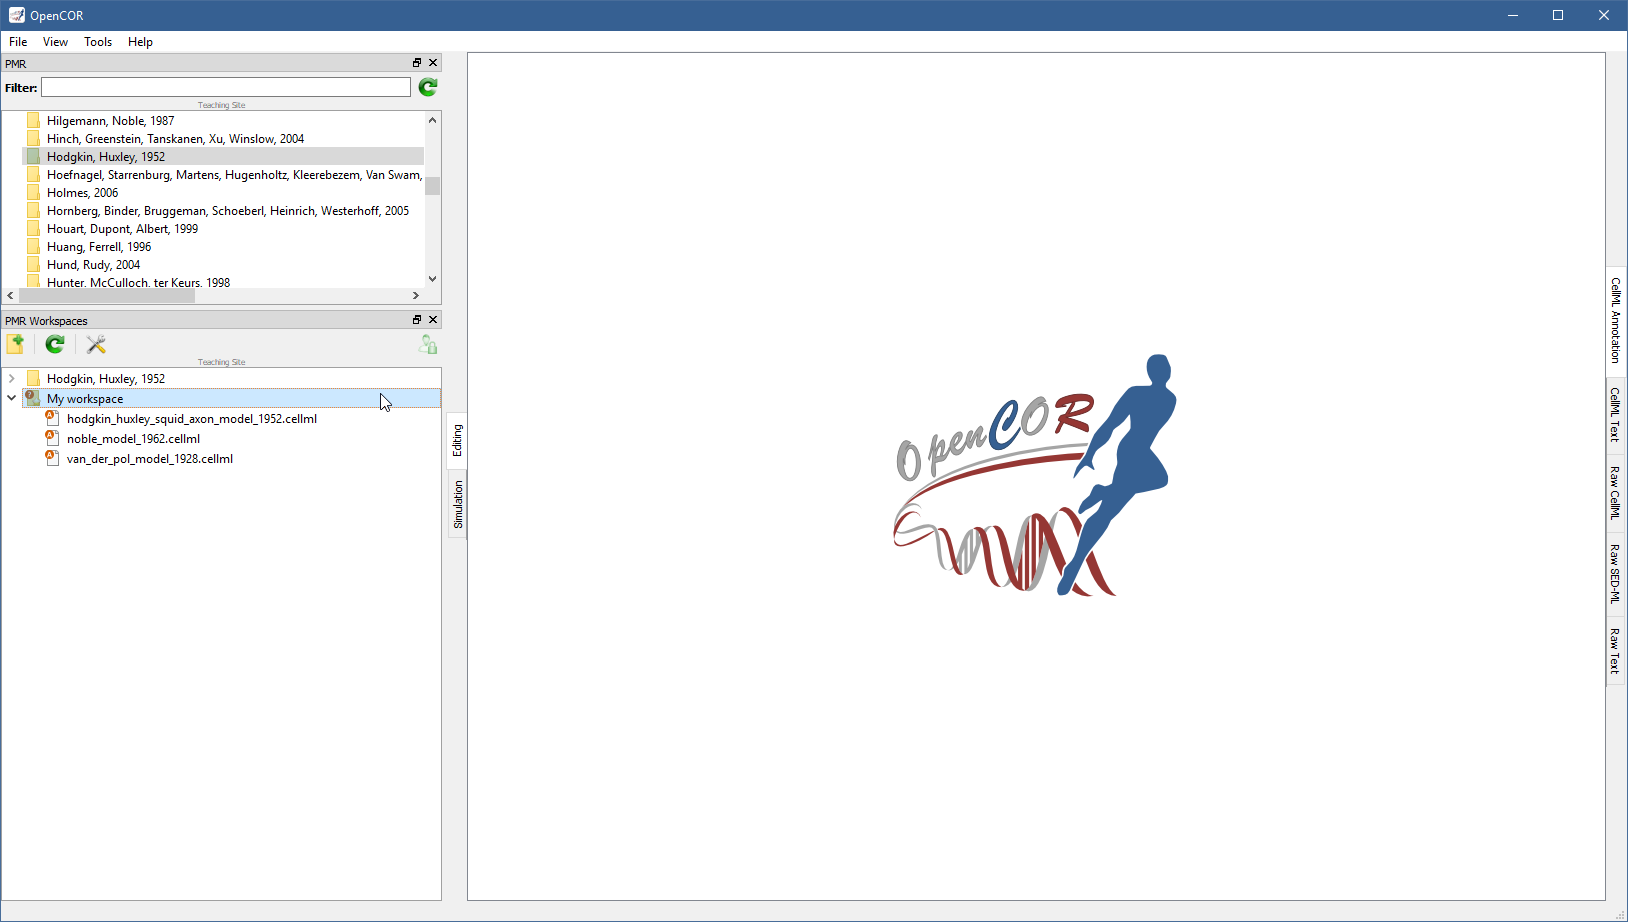
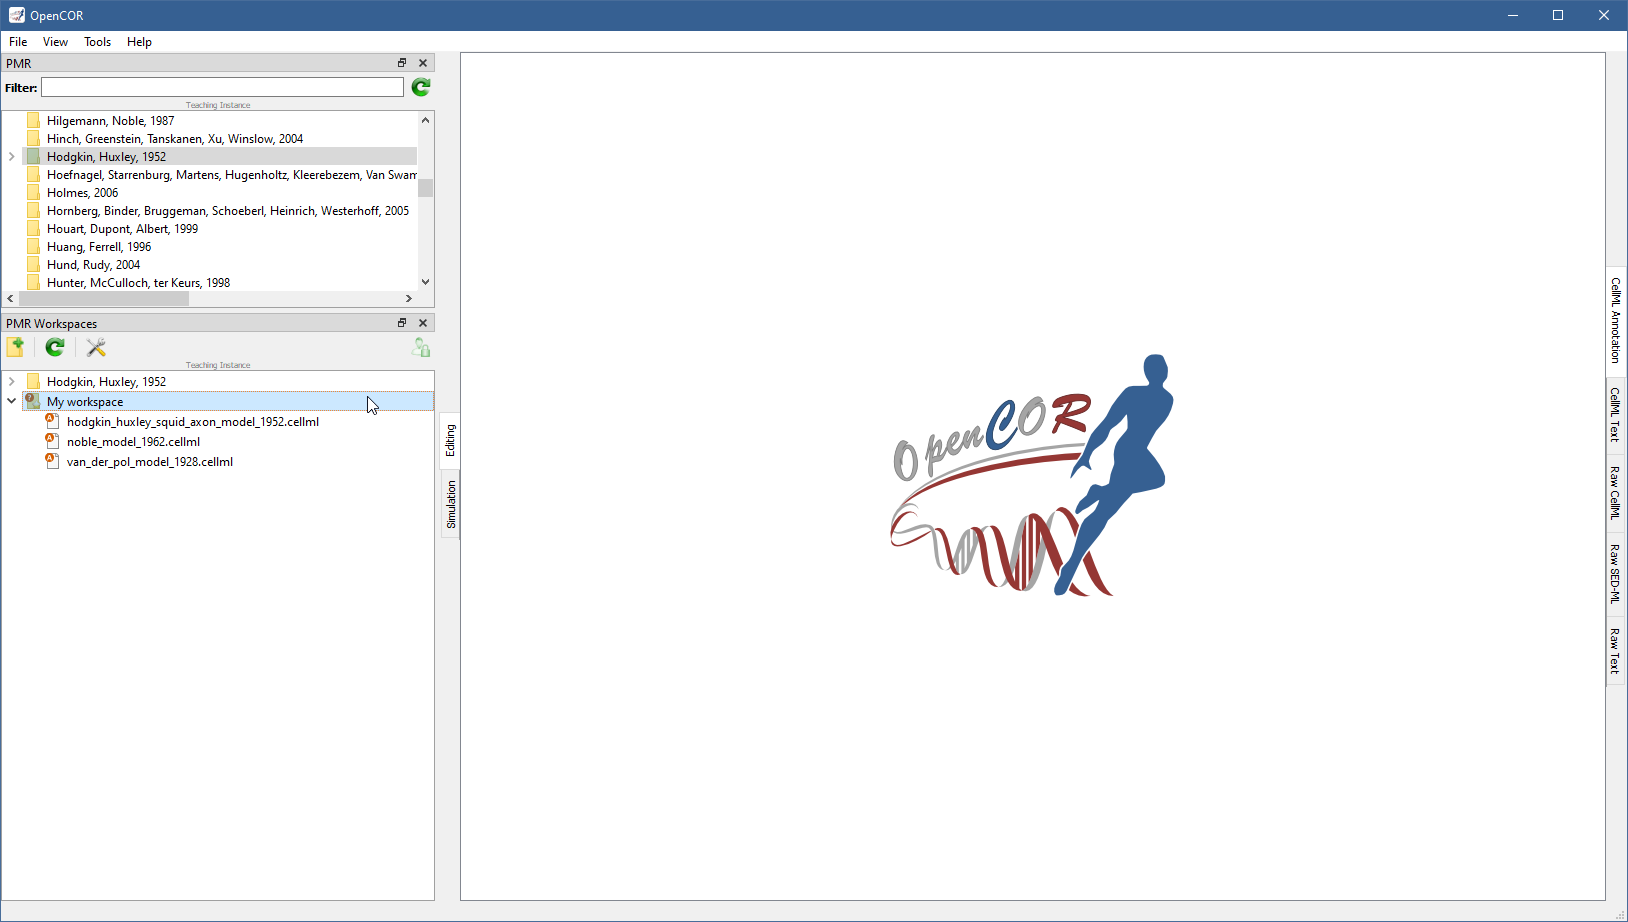
Updated our PMR workspaces window plugin page.

diff --git a/src/plugins/organisation/pmrWorkspacesWindow.rst b/src/plugins/organisation/pmrWorkspacesWindow.rst
@@ -27,15 +27,15 @@ Instances of PMR
 
 There are three instances of `PMR <https://models.physiomeproject.org/>`__:
 
-- `Primary instance <https://models.physiomeproject.org>`__: everything on this instance is permanent and persistent.
+- `Models instance <https://models.physiomeproject.org>`__: everything on this instance is permanent and persistent.
   It is always up and always stable.
 - `Staging instance <https://staging.physiomeproject.org>`__: it is used for public testing/preview of PMR developments.
   Data on this instance is wiped periodically whenever a new public testing/preview of the PMR software suite is released for the required testing exercise.
-- `Teaching instance <https://teaching.physiomeproject.org>`__: the functionality of this instance should match the primary instance, but without the data persistency guarantees.
+- `Teaching instance <https://teaching.physiomeproject.org>`__: the functionality of this instance should match the models instance, but without the data persistency guarantees.
   While data on this instance is also not permanent, any wipes to data stored will be announced on the `cellml-discussion mailing list <https://lists.cellml.org/sympa/info/cellml-discussion>`__.
 
-Both the `primary instance <https://models.physiomeproject.org>`__ and the `teaching instance <https://teaching.physiomeproject.org>`__ require you to create an account before you can start interacting with them.
-On the `staging instance <https://staging.physiomeproject.org>`__, your `primary instance <https://models.physiomeproject.org>`__ account may work, but if not then you need to create an account (on the `staging instance <https://staging.physiomeproject.org>`__).
+Both the `models instance <https://models.physiomeproject.org>`__ and the `teaching instance <https://teaching.physiomeproject.org>`__ require you to create an account before you can start interacting with them.
+On the `staging instance <https://staging.physiomeproject.org>`__, your `models instance <https://models.physiomeproject.org>`__ account may work, but if not then you need to create an account on the `staging instance <https://staging.physiomeproject.org>`__.
 
 .. _plugins_organisation_pmrWorkspacesWindow_specifyInstanceOfPmr:
 
@@ -91,7 +91,7 @@ This closes the window and replaces the |logOn| button with the |logOff| button,
 Make a local copy of a public workspace
 ---------------------------------------
 
-The :ref:`PMR Window <plugins_organisation_pmrWindow>` lists published exposures, which reference a specific state of a public workspace.
+The :ref:`PMR window <plugins_organisation_pmrWindow>` lists published exposures, which reference a specific state of a public workspace.
 Say that you want to experiment with the `Hodgkin–Huxley model <https://ncbi.nlm.nih.gov/pmc/articles/PMC1392413/pdf/jphysiol01442-0106.pdf>`__.
 You can do so by switching to the teaching instance (see :ref:`above <plugins_organisation_pmrWorkspacesWindow_specifyInstanceOfPmr>`), looking for the `Hodgkin–Huxley model <https://ncbi.nlm.nih.gov/pmc/articles/PMC1392413/pdf/jphysiol01442-0106.pdf>`__, right clicking on it and by selecting the ``Make Local Copy...`` menu item:
 
@@ -112,7 +112,7 @@ Create a new workspace
 ----------------------
 
 You can create a workspace by clicking on the |newFolder| button in the tool bar.
-You need to provide both a name and the path to a folder (it *does not* have to be empty).
+You need to provide both a name and the path to a folder (it *does not* have to be an empty folder).
 You may also provide a description:
 
 .. |newFolder| image:: ../../pics/newFolder.png
@@ -124,7 +124,7 @@ You may also provide a description:
    :scale: 25%
 
 Any file already present in the folder will be considered new.
-For example, if you provide a folder containing the `models <https://github.com/opencor/opencor/tree/master/models>`__ shipped with OpenCOR, you will get something like the following upon creation of the workspace:
+For example, if you provide a folder containing the `models <https://github.com/opencor/opencor/tree/master/models/>`__ shipped with OpenCOR, you will get something like the following upon creation of the workspace:
 
 .. image:: pics/PMRWorkspacesWindowScreenshot09.png
    :align: center
@@ -174,7 +174,7 @@ The model files are now preceded by the |file| icon and the workspace folder by 
    :align: center
    :scale: 25%
 
-You can check your workspace in `PMR <https://models.physiomeproject.org/>`__ by right clicking on any of the files/folders in your workspace and by selecting the ``Synchronise Workspace With PMR...`` menu item:
+You can check your workspace in `PMR <https://models.physiomeproject.org/>`__ by right clicking on any of the files/folders in your workspace and by selecting the ``View Workspace In PMR...`` menu item:
 
 .. image:: pics/PMRWorkspacesWindowScreenshot12.png
    :align: center
@@ -357,4 +357,4 @@ Similarly, different icons are used to distinguish the different states of a fil
 
 **Note:** you should always see the *unstaged* version of an icon.
 The only case where you will see the *staged* version is if something went wrong during synchronisation.
-Indeed, synchronisation is done using `Git <https://git-scm.com/>`__ and it may be that something caused it to fail (e.g. loss of Internet connection), in which case you will likely have to fix the problem yourself, using `Git <https://git-scm.com/>`__.
+Indeed, synchronisation is done using `Git <https://git-scm.com/>`__ and it may be that something caused it to fail (e.g., loss of Internet connection), in which case you will likely have to fix the problem yourself, using `Git <https://git-scm.com/>`__.
